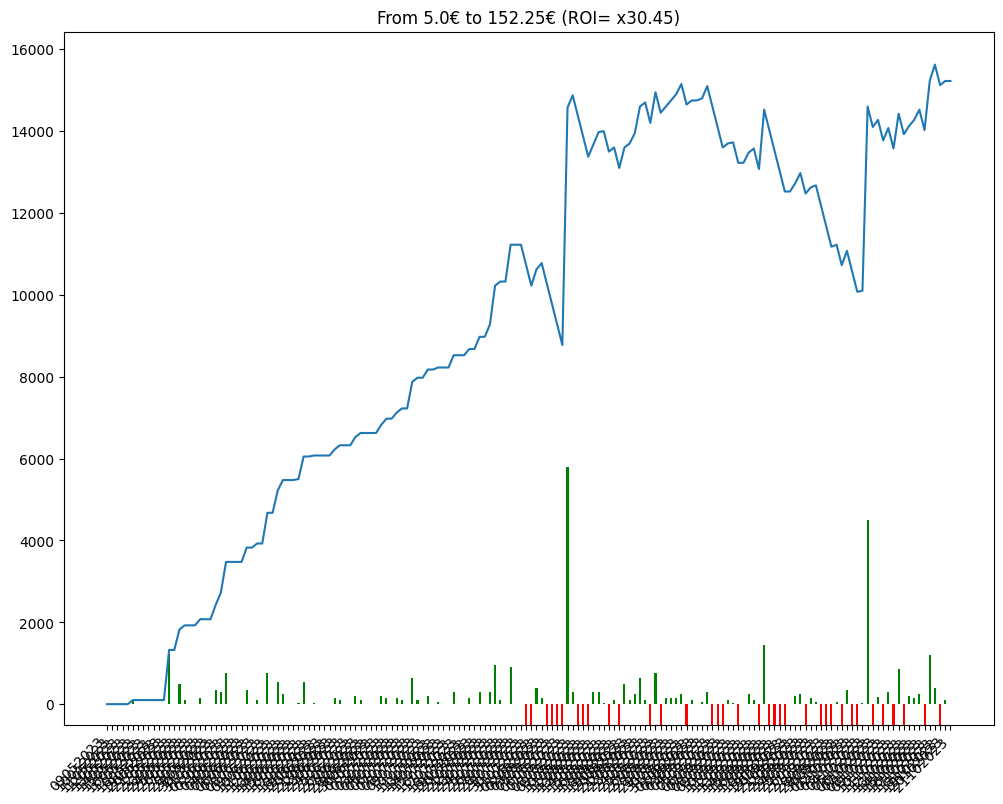
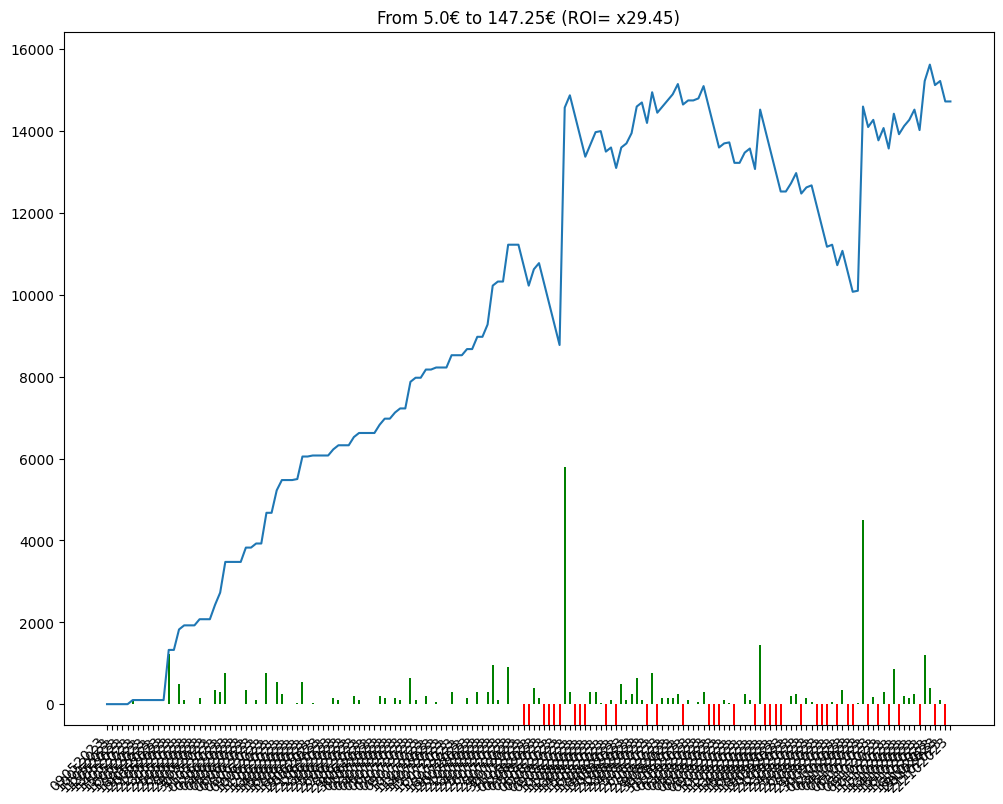
comment from python script

diff --git a/bethistory.html b/bethistory.html
@@ -86,7 +86,8 @@
             En observant la courbe 🤔, on peut avoir une idée visuelle de l'évolution des gains et ainsi évaluer le model utilisé 🧑🏫.
         </p>
         
-        <img src = "/candle.png" alt="candle chart"/><table><tr><td>Chevaux joués</td><td>Gains</td><td>URL Circuits</td></tr><tr><td>5 - AKAGERA</td><td>0</td><td><a href=https://www.pmu.fr/turf/21102023/r1/c8 target="_blank">https://www.pmu.fr/turf/21102023/r1/c8</a></td></tr>
+        <img src = "/candle.png" alt="candle chart"/><table><tr><td>Chevaux joués</td><td>Gains</td><td>URL Circuits</td></tr><tr><td>3 - MANISHA</td><td>0</td><td><a href=https://www.pmu.fr/turf/22102023/r1/c1 target="_blank">https://www.pmu.fr/turf/22102023/r1/c1</a></td></tr>
+<tr><td>5 - AKAGERA</td><td>-500</td><td><a href=https://www.pmu.fr/turf/21102023/r1/c8 target="_blank">https://www.pmu.fr/turf/21102023/r1/c8</a></td></tr>
 <tr><td>7 - CETERA</td><td>+100</td><td><a href=https://www.pmu.fr/turf/20102023/r3/c4 target="_blank">https://www.pmu.fr/turf/20102023/r3/c4</a></td></tr>
 <tr><td>3 - CHART CITY</td><td>-500</td><td><a href=https://www.pmu.fr/turf/19102023/r6/c5 target="_blank">https://www.pmu.fr/turf/19102023/r6/c5</a></td></tr>
 <tr><td>8 - BRIGHT PICTURE</td><td>+400</td><td><a href=https://www.pmu.fr/turf/18102023/r3/c1 target="_blank">https://www.pmu.fr/turf/18102023/r3/c1</a></td></tr>
